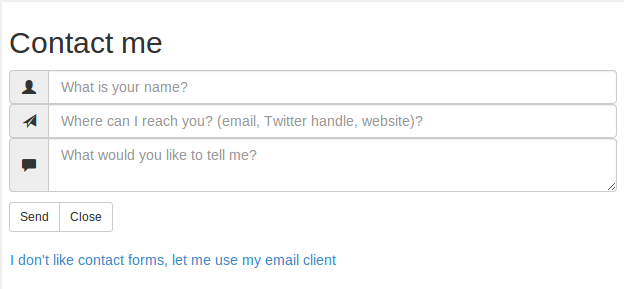
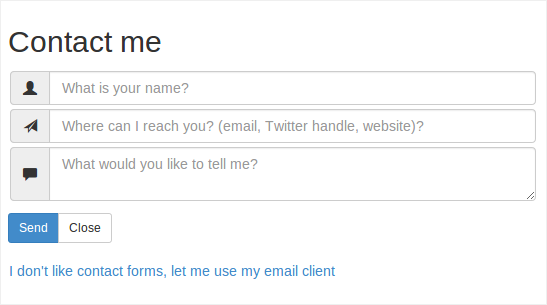
Updated UI, README

Changed region(s): [[0.0, 0.218, 0.9945, 0.8097], [0.0, 0.872, 0.6216, 0.9343], [0.0, 0.0934, 0.3108, 0.1869]]

diff --git a/fancy/css/styles.css b/fancy/css/styles.css
@@ -17,3 +17,7 @@
 	visibility: hidden;
 	height: 1px;	
 }
+
+.input-group{
+	padding: 2px;
+}

diff --git a/fancy/php/mail.php b/fancy/php/mail.php
@@ -6,7 +6,7 @@
 	$trap == '' or die();
 	$formcontent="A message from $name ($email)\n$message";
 	$recipient = "your@email.com";
-	$subject = "fourtonfish.com: A message from $name ($email)";
+	$subject = "A message from $name ($email)";
 	$mailheader = "From: $email \r\n";
 /*
 	Either set the header below to yoursite.com or delete this comment to redirect to the mail.php

diff --git a/simple/php/mail.php b/simple/php/mail.php
@@ -6,7 +6,7 @@
 	$trap == '' or die();
 	$formcontent="A message from $name ($email)\n$message";
 	$recipient = "your@email.com";
-	$subject = "fourtonfish.com: A message from $name ($email)";
+	$subject = "A message from $name ($email)";
 	$mailheader = "From: $email \r\n";
 /*
 	Either set the header below to yoursite.com or delete this comment to redirect to the mail.php

diff --git a/README.md b/README.md
@@ -24,7 +24,6 @@ Also, in _index.html_:
 
 I am including **two versions** of the form, a simple one (which has one small issue<sup>2</sup>) and a fancier one that uses Twitter Bootstrap (Apache License: https://github.com/twbs/bootstrap/blob/master/LICENSE).
 
-
 ***
 <sup>1</sup> These contact forms **don't validate the email**, which is pretty much the whole point. If your visitor wants to use a fake email, it is not hard to make one up. If you go as far as to try to see if the email really exists, it is still trivial to bypass your form by creating yet another free email account.
 
@@ -45,3 +44,26 @@ To this:
 On Linux, I have the problem even when using Firefox (In Windows it's limited only to Chrome, Firefox works fine).
 
 The "fancy" version doesn't have this problem at all.
+***
+  
+Assorted Feedback and Suggestions
+=================================
+  
+>Your multi-source contact info field cannot possibly reliably detect whether the user is entering a twitter, email, website, or other contact information. Not even with matching against strings/regex. You're gonna run into people putting unverifiable junk in that box, and people who don't specify what source the contact is from. The traditional way is to send an email to the address to see if it works. 
+
+The use cases of this form don't require this. This form suits best personal websites where the visitor trying to get in touch with you is very likely to want to include proper contact information.
+
+> You should look into APIs like http://www.fullcontact.com/developer that can find all of a user's social accounts just given his email.
+
+> If you wanna see some "advanced" forms, check out http://wufoo.com 
+
+The contact forms I made are just examples/blueprints, so I am intentionally keeping them simple. The real point is to show the UX ideas: the "multi-source contact info field", an option to use user's email client instead of forcing him or her to use the form and sending a confirmation email, if possible.
+
+You can actually use wufoo.com and follow while following these principles.
+
+The actual forms only serve as a "clickable" example, which I think would be better than a mockup screenshot.
+
+A Few Good Tips I Didn't Implement
+==================================
+  
+- The _Name_ field is not really necessary, as it will likely be included in the email or the person's Twitter page. The visitor can also easily include his or her name in the message.
